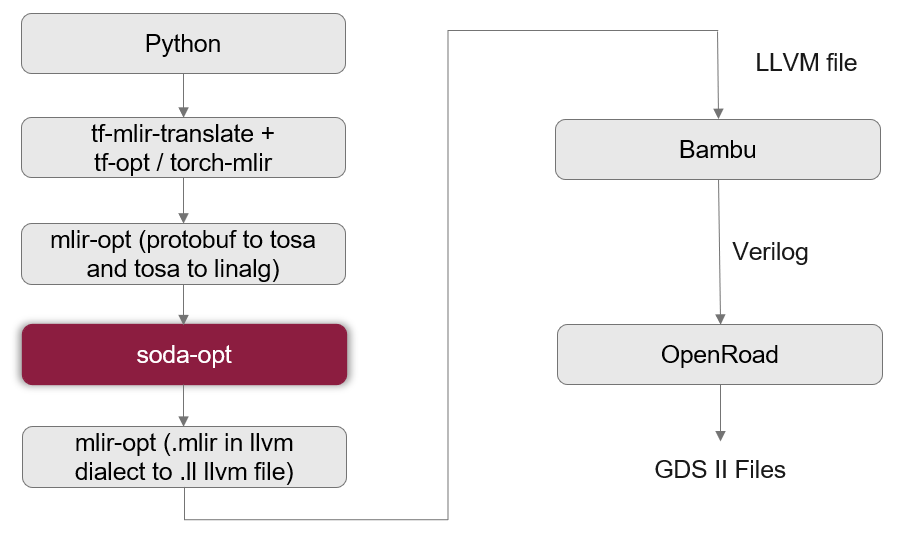
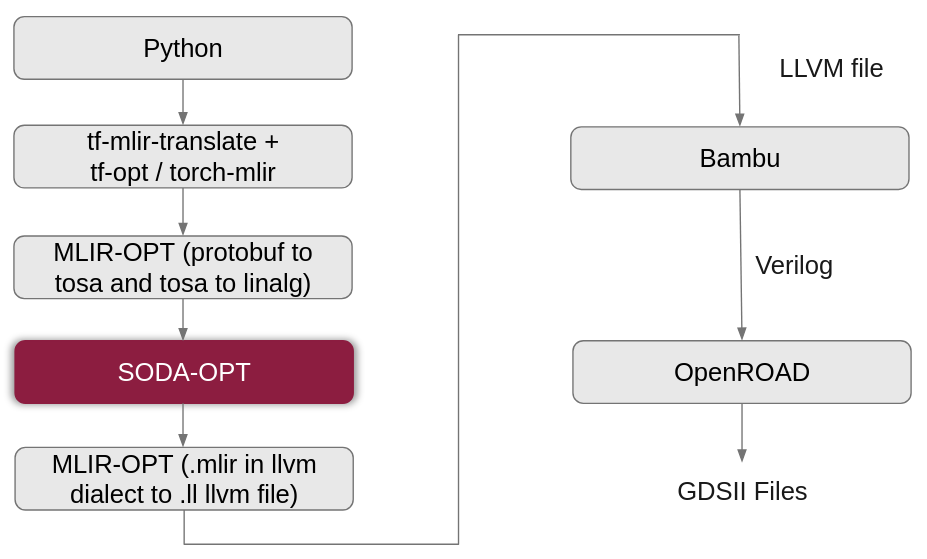
Updated readme file

diff --git a/README.md b/README.md
@@ -22,7 +22,7 @@ Results demonstrate that hardware design for large neural networks can be signif
 4. **SODA**: Partition host and accelerated code, apply loop and memory optimizations for ASIC generation.
 5. **MLIR to LLVM**: Convert optimized MLIR to LLVM dialect, resulting in an LLVM intermediate file (.ll).
 6. **Bambu HLS**: Use Bambu HLS to translate LLVM code to Verilog for hardware synthesis.
-7. **OpenRoad**: Employ OpenRoad to generate a GDSII file from the Verilog, ready for ASIC manufacturing.
+7. **OpenROAD**: Employ OpenROAD to generate a GDSII file from the Verilog, ready for ASIC manufacturing.
 
 ### GitHub 
 
@@ -76,7 +76,7 @@ docker pull agostini01/soda
 ├── 📁 models                      # Holds machine learning or simulation models related to the project.
 ├── 📁 python_to_mlir              # Contains intermediate finals for Python to MLIR flow.
 ├── 📁 results                     # Stores results of Design Space Exploration in .csv format.
-├── 📁 scripts                     # Contains code scripts used for various tasks (e.g., data processing, analysis).
+├── 📁 scripts                     # Contains scripts to run Bambu and OpenROAD.
 ├── 📁 src                         # Source code files for the main functionality of the project.
 │   ├── conv2d_class.py            	# Class implementation for 2D Convolution layers.
 │   ├── create_mlir_files.py       	# Script to generate MLIR files.
@@ -244,7 +244,7 @@ python3 src/main.py --read_mlir ./models/lenet.mlir --conv2D --select_layer 2
 
 While running the DSE commands, all intermediate files and results will be saved in the `./output` folder. This folder contains various subdirectories and files that capture the different stages of the DSE process.
 
-- **Layer-Specific Folders**: For each layer of the model, a directory with the format `./layers_<model_name>_<optimization>` will be created. These folders contain the "folded" layers that SODA will utilize during acceleration. For example, if you are running DSE on a model named `lenet` with loop tiling, you will see a folder named `./layers_lenet_tile` inside the `output` directory.
+- **Layer-Specific Folders**: For each layer of the model, a directory with the format `./layers_<model_name>_<optimization>` will be created. These folders contain the "folded" layers that SODA will utilize during acceleration. For example, if you are running DSE on a model named `lenet` with loop tiling, you will see a folder named `layers_lenet_tile` inside the `output` directory.
 - **Intermediate Files**: In the `./output` folder, you will also find intermediate files generated by SODA, Bambu, and OpenRoad. These files capture each step of the DSE process, from code acceleration and high-level synthesis to physical design. These intermediate files allow you to inspect the transformations and optimizations applied to the model at various stages.
 
 #### Results
